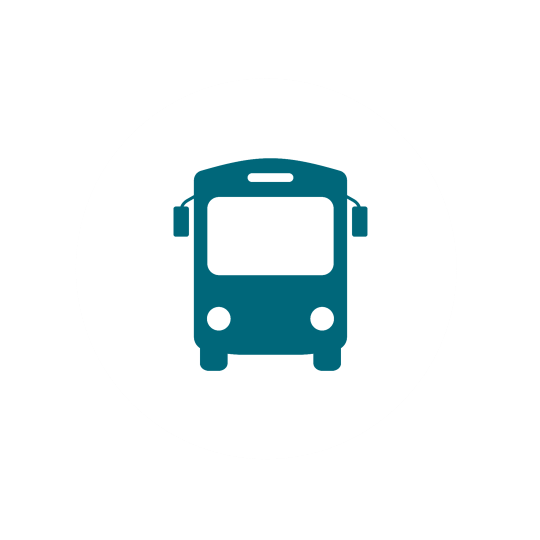
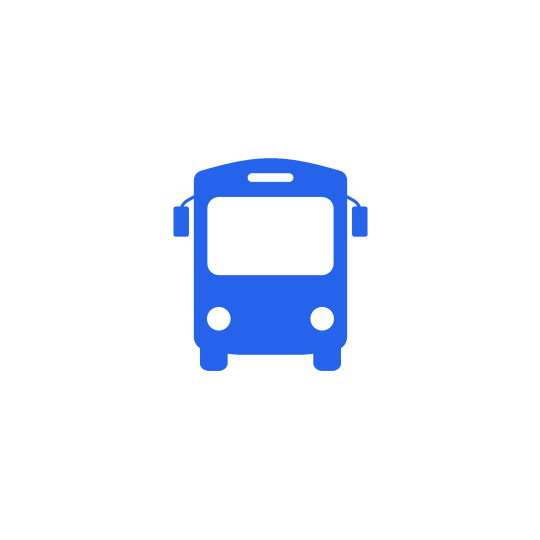
Major UI Change for a ligher color version

Changed region(s): [[0.2963, 0.2667, 0.6815, 0.7111]]

diff --git a/css/custom.css b/css/custom.css
@@ -7,104 +7,32 @@
 }
 
 body {
-    background: linear-gradient(to bottom right, #E8F6F8, #B6DDE0, #74B2C8);
+/*    background: linear-gradient(to bottom right, #E8F6F8, #B6DDE0, #74B2C8);
     height: 100vh;
     margin: 0;
-    background-attachment: fixed;
+    background-attachment: fixed;*/
 
-    /*background-color: #FFFFFF;*/
+    background-color: #F9FAFB;
 }
 
-/*body {
-  background: conic-gradient(from 45deg at 50% 50%, 
-                              #E0F2F7,   Very light blue 
-                              #A5D8E2,   Light desaturated blue-green 
-                              #7BC8C9,   Medium desaturated blue-green 
-                              #A5D8E2,   Light desaturated blue-green 
-                              #E0F2F7);  Very light blue 
 
-  height: 100vh;
-  margin: 0;
-  background-attachment: fixed;
-
-}*/
-
-/*body {
-  background: conic-gradient(from 45deg at 50% 50%,
-                              #F7F7F7,
-                              #DFDFE7,
-                              #B5D0EB,
-                              #99A9B7,
-                              #6AACA4,
-                              #99A9B7,  Back to the grey-blue 
-                              #B5D0EB,  Back to the light blue 
-                              #DFDFE7,  Back to the light grey 
-                              #F7F7F7);  Back to the lightest 
-
-  height: 100vh;
-  margin: 0;
-  background-attachment: fixed;
-
-}*/
-
-/*body {
-  background: conic-gradient(from 45deg at 50% 50%,
-                              #FFFFFF,
-                              #C7DEE3,
-                              #00677A,
-                              #0F798D,
-                              #248A9D,
-                              #4EAABA,
-                              #248A9D,  Back to the teal 
-                              #0F798D,  Back to the darker teal 
-                              #00677A,  Back to the dark blue-green 
-                              #C7DEE3,  Back to the light blue 
-                              #FFFFFF);  Back to the white 
-
-  height: 100vh;
-  margin: 0;
-  background-attachment: fixed;
-}*/
-
-/*body {
-  background: 
-    radial-gradient(circle at 20% 30%, #FFFFFF, #C7DEE3, #00677A),
-    radial-gradient(circle at 70% 10%, #0F798D, #248A9D, #4EAABA),
-    radial-gradient(circle at 10% 80%, #C7DEE3, #00677A, #0F798D),
-    radial-gradient(circle at 90% 60%, #248A9D, #4EAABA, #FFFFFF);
-
-  height: 100vh;
-  margin: 0;
-  background-attachment: fixed;
-}*/
-
-/*body {
-  background: 
-    radial-gradient(circle at 20% 30%, #FFFFFF, rgba(199, 222, 227, 0.7), #C7DEE3, rgba(0, 103, 122, 0.5), #00677A),
-    radial-gradient(circle at 70% 10%, #0F798D, rgba(36, 138, 157, 0.6), #248A9D, rgba(78, 170, 186, 0.4), #4EAABA),
-    radial-gradient(circle at 10% 80%, #C7DEE3, rgba(0, 103, 122, 0.6), #00677A, rgba(15, 121, 141, 0.4), #0F798D),
-    radial-gradient(circle at 90% 60%, #248A9D, rgba(78, 170, 186, 0.5), #4EAABA, rgba(199, 222, 227, 0.3), #FFFFFF);
-
-  height: 100vh;
-  margin: 0;
-  background-attachment: fixed;
-}*/
-
-
-/*input[type="text"], input[type="email"], input[type="date"],input[type="file"],input[type="password"],select{
-    background-color: #e4eaeb !important;
-}*/
 
 .table {
-    background-color:#e3edf7;
+    background-color:#ffffff;
     border-radius: 8px;
     overflow: hidden; 
-    /* overflow: hidden; --->>>Ensures rounded corners apply properly */
+    border:1px solid lightsteelblue;
 }
 
 .table thead {
-    background-color: #076a80;
+    /*background-color: #2563EB;*/
+    background-color: #31708f;
+    /*background-color: #0D9488;*/
     color:white;
+}
+
+.table tbody > tr > td {
+    vertical-align: middle;
 }
 
 

diff --git a/view/view-users.php b/view/view-users.php
@@ -78,10 +78,12 @@ $userResult = $userObj->getAllUsers();
                                 while($userRow=$userResult->fetch_assoc()){
                                     
                                     $status = "Active";
+                                    $statusClass = "label label-success";
                                     
                                     if($userRow["user_status"]==0){
                                         
-                                        $status ="Deactived";
+                                        $status ="Deactivated";
+                                        $statusClass = "label label-default";
                                     }
                                     
                                     $img_path="../images/userimages/";
@@ -98,21 +100,13 @@ $userResult = $userObj->getAllUsers();
                                     $user_id = $userRow["user_id"];
                                     $user_id = base64_encode($user_id);
                             ?>
-                                    <tr
-                                        <?php 
-                                                if($userRow["user_status"]==0){
-                                            ?>        
-                                                    style="background-color:#d8bfd8;"
-                                            <?php
-                                                }
-                                            ?>
-                                        >
+                                    <tr>
                                         <td>
                                             <img src="<?php echo $img_path;?>" style="border-radius: 50%" height="60px" width="60px"/>
                                         </td>
                                         <td><?php echo $userRow["user_fname"]." ".$userRow["user_lname"];?></td>
                                         <td><?php echo $userRow["user_email"];?></td>
-                                        <td><?php echo $status;?></td>
+                                        <td><span class="<?php echo $statusClass;?>"><?php echo $status;?></span></td>
                                         <td>
                                             <a href="view-user.php?user_id=<?php echo $user_id;?>" class="btn btn-info" style="margin:2px">
                                                 <span class="glyphicon glyphicon-search"></span>                                                  
@@ -142,7 +136,7 @@ $userResult = $userObj->getAllUsers();
                                             <a href="../controller/user_controller.php?status=delete&user_id=<?php echo $user_id; ?>" class="btn btn-danger" style="margin:2px">
                                                 <span class="glyphicon glyphicon-trash"></span>
                                                 Delete
-                                            </a>   
+                                            </a> 
                                         </td>
                                     </tr>
                             <?php

diff --git a/view/service-history.php b/view/service-history.php
@@ -100,25 +100,25 @@ $busObj = new Bus();
                                             $statusDisplay = match($serviceStatus){
                                                 '-1'=>'Cancelled',
                                                 '1'=>'Ongoing',
-                                                '2'=>'Completed',  
+                                                '2'=>'Completed',
+                                                '3'=>'Completed & Paid'
+                                            };
+                                            
+                                            $statusDisplayClass = match($serviceStatus){
+                                                '-1'=>'label label-danger',
+                                                '1'=>'label label-warning',
+                                                '2'=>'label label-success',
+                                                '3'=>'label label-primary'
                                             };
                                             
                                             $serviceId = $serviceDetailRow['service_id'];
                                             $serviceId = base64_encode($serviceId);
                                 ?>
-                                <tr <?php if($serviceDetailRow['service_status']==-1){?>
-                                        style="background-color:#d8bfd8;"
-                                        <?php
-                                        }elseif($serviceDetailRow['service_status']==2){?>
-                                        style="background-color:#a1f2a0;"
-                                        <?php
-                                        }
-                                        ?>
-                                    >
+                                <tr>
                                     <td><?php echo $busRow['vehicle_no'];?></td>
                                     <td><?php echo $servicedDate = ($serviceDetailRow['completed_date']=="")?"Not Applicable":$serviceDetailRow['completed_date'];?> </td>
                                     <td><?php echo number_format($serviceDetailRow['mileage_at_service'],0);?>&nbsp; Km </td>
-                                    <td><?php echo $statusDisplay;?> </td>
+                                    <td><span class="<?php echo $statusDisplayClass;?>"><?php echo $statusDisplay;?></span> </td>
                                     <td>
                                         <a href="view-service-record.php?service_id=<?php echo $serviceId; ?>" class="btn btn-info" style="margin:2px">
                                             <span class="glyphicon glyphicon-search"></span>                                                  

diff --git a/view/dashboard.php b/view/dashboard.php
@@ -25,8 +25,8 @@ $moduleResult = $moduleObj->getAllModules($userSession['user_role']);
         <?php while($moduleRow=$moduleResult->fetch_assoc()){
             ?>
             <div class="col-md-3 col-sm-4">
-                <a href="<?php echo $moduleRow["module_url"]?>" style="text-decoration:none; color:#fff">
-                    <div class="panel" style="height:150px; background-color:#2A7F97">
+                <a href="<?php echo $moduleRow["module_url"]?>" style="text-decoration:none;color:black">
+                    <div class="panel module" style="height:170px;background-color:#ffffff;border:1px solid lightsteelblue">
                         <h1 align="center">
                             <img src="../images/moduleimages/<?php echo $moduleRow["module_icon"]?>" style="height:80px">
                         </h1>
@@ -42,4 +42,12 @@ $moduleResult = $moduleObj->getAllModules($userSession['user_role']);
     </div>
 </body>
 <script src="../js/jquery-3.7.1.js"></script>
+<script>
+    $(document).ready(function(){
+        $('.module').on(
+            {mouseenter:function(){$(this).css("background-color", "#e2eafc");},
+            mouseleave: function(){$(this).css("background-color", "#ffffff");}
+        });
+    });
+</script>
 </html>

diff --git a/view/view-user.php b/view/view-user.php
@@ -68,7 +68,7 @@ $moduleResult=$userObj->getRoleModules($user_role);
         </div>
         <form action="../controller/user_controller.php?status=update_user" method="post" enctype="multipart/form-data">
             <div class="col-md-9">
-                <div class="panel panel-default" style="height:auto">
+                <div class="panel panel-info" style="height:auto">
                     <div class="panel-heading">
                         <div class="row">
                             <div class="col-xs-3 col-md-2">
@@ -88,7 +88,7 @@ $moduleResult=$userObj->getRoleModules($user_role);
                             </div>
                             <div class="col-xs-9 col-md-10" >
                                 <h3 style="margin-top: 7px;"><b><?php echo $userRow['user_fname']." ".$userRow['user_lname'];?></b> </h3>
-                                <h4 style="color:grey; margin-top: 0;"><?php echo $userRow['role_name'];?></h4>
+                                <h4 style="color:black; margin-top: 0;"><?php echo $userRow['role_name'];?></h4>
                                 <span>Username : <?php echo $userRow['login_username'];?> </span>
                             </div>
                         </div>

diff --git a/view/view-bus.php b/view/view-bus.php
@@ -88,7 +88,7 @@ $statusClass = match($busRow['bus_status']){
         </div>
         <form action="../controller/bus_controller.php?status=update_bus" method="post" enctype="multipart/form-data">
             <div class="col-md-9">
-                <div class="panel panel-default" style="height:auto">
+                <div class="panel panel-info" style="height:auto">
                     <div class="panel-heading">
                         <div class="row">
                             <div class="col-md-12" style="text-align:center">

diff --git a/includes/header_row_includes.php b/includes/header_row_includes.php
@@ -8,7 +8,7 @@
     </div>
     <div class="col-md-3 hidden-xs"></div>
 </div>
-<hr />
+<hr style="border:1px solid lightsteelblue"/>
 <div class="row">
     <div class="col-md-3 col-xs-3 col-sm-3" style="vertical-align: middle;margin-top:5px">
         <b><?php echo ucwords($userSession["user_fname"]." ".$userSession["user_lname"]); ?></b>
@@ -20,4 +20,4 @@
         <a href="../controller/login_controller.php?status=logout" class="btn btn-danger">Logout</a>
     </div>
 </div>
-<hr />
+<hr style="border:1px solid lightsteelblue"/>

diff --git a/view/view-service-record.php b/view/view-service-record.php
@@ -122,7 +122,7 @@ $finalizedByUserRow = $finalizedByUserResult->fetch_assoc();
                 </div>
             </div>
             <div class="row">
-                <div class="panel panel-default">
+                <div class="panel panel-info">
                     <div class="panel-heading">
                         <h3 style="margin:0px">Service Information</h3>
                     </div>
